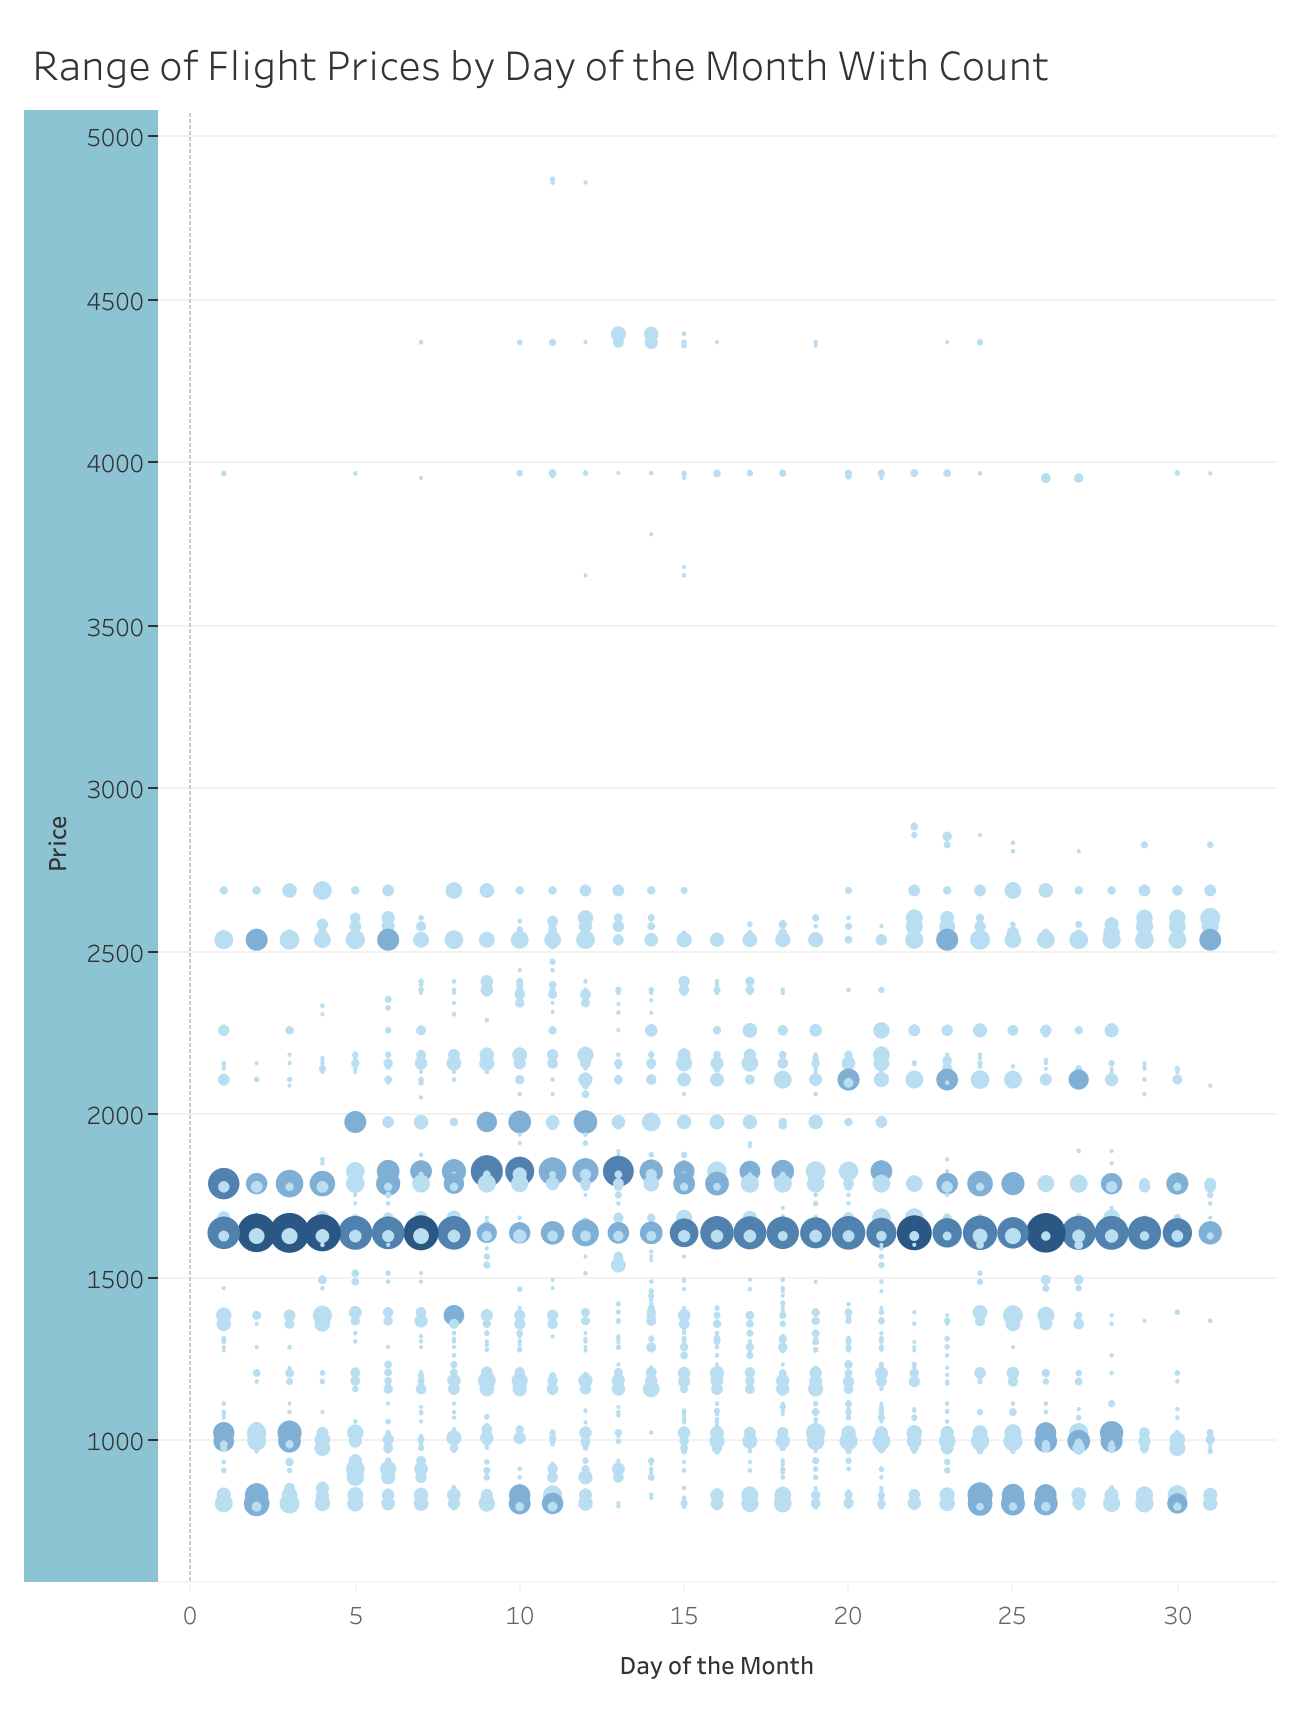
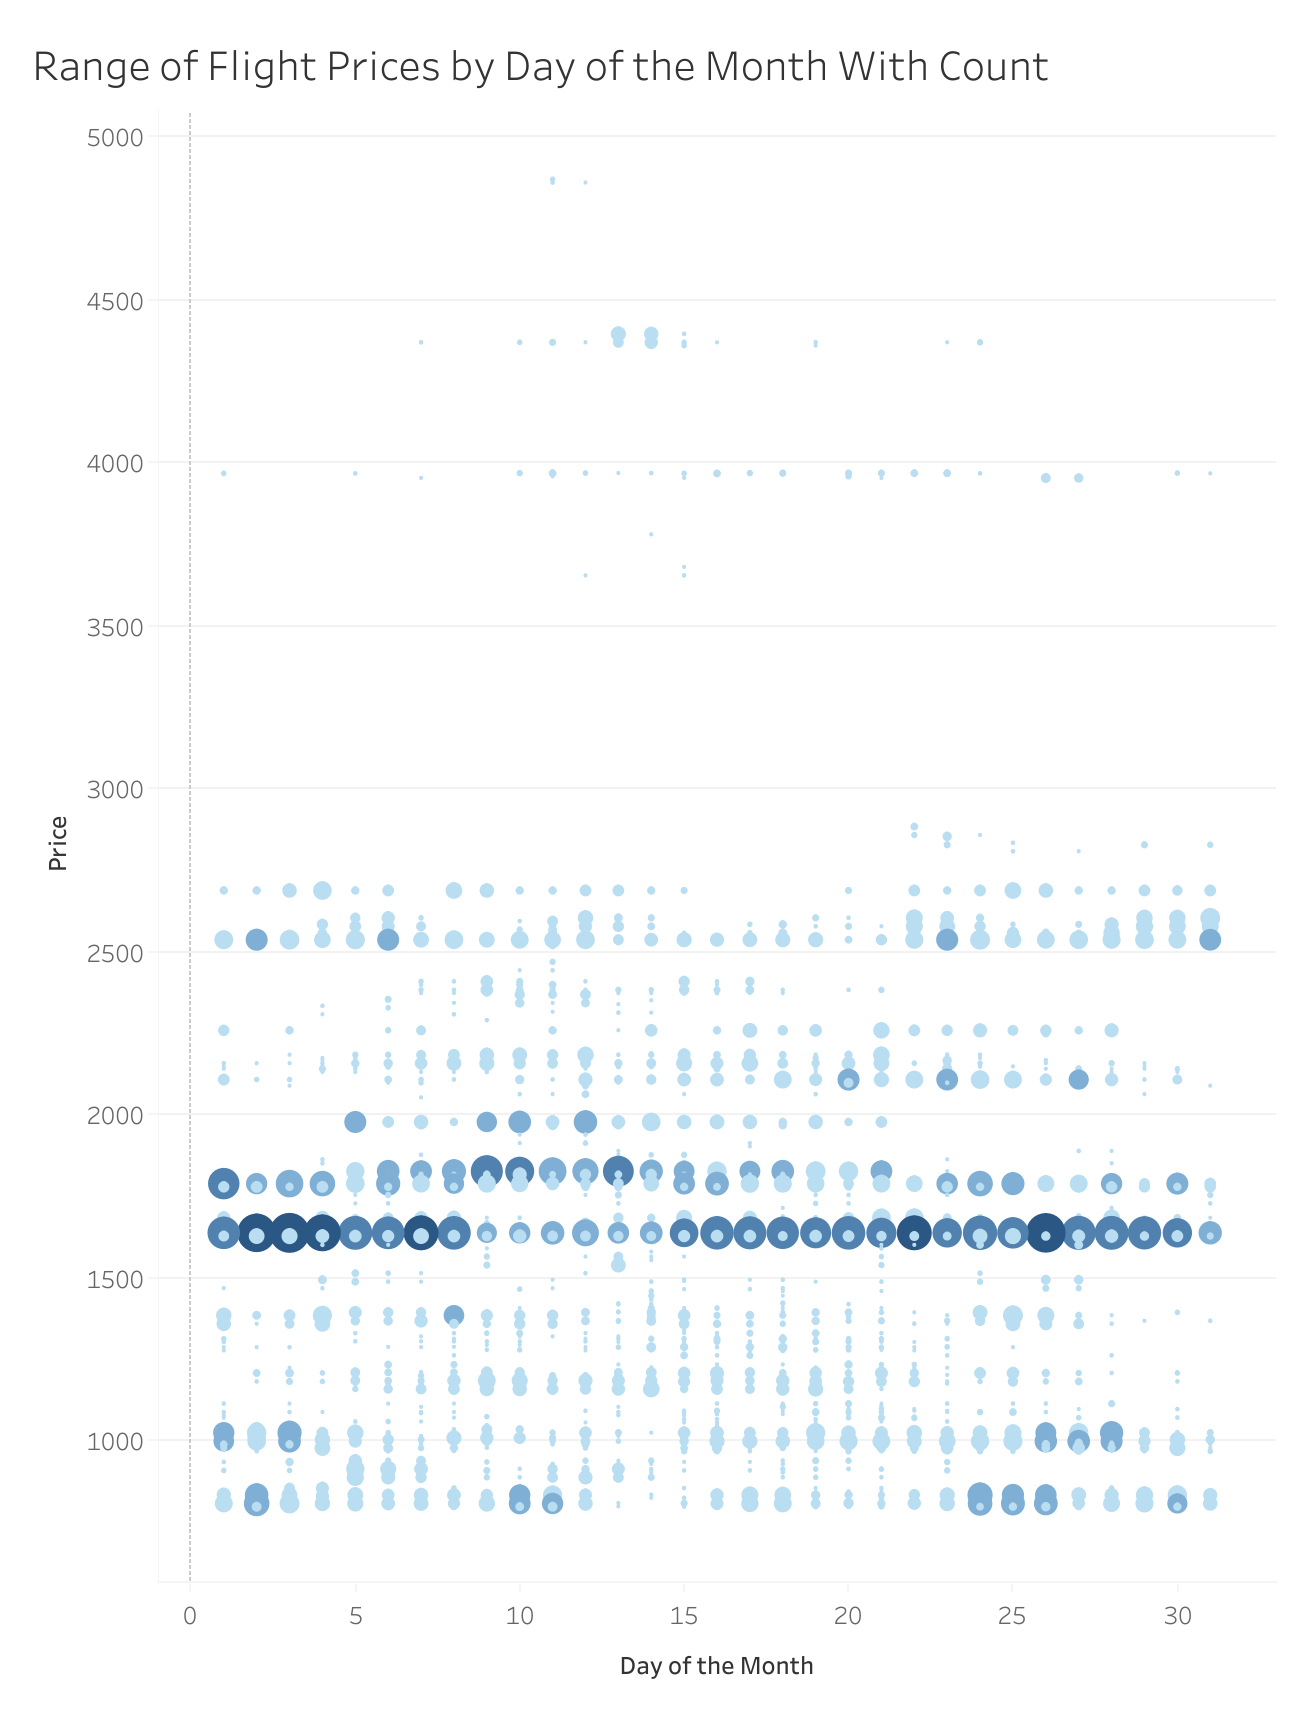
update photos

Changed region(s): [[0.0, 0.0617, 0.1233, 0.9255]]

diff --git a/projects/flightviz.md b/projects/flightviz.md
@@ -24,7 +24,7 @@ Some key takeaways:
 
 <br>
 
-<img src="../assets/img/projects/flightviz/HeatMapWeeklyAverages.png" alt="HeatmapWeek" width="600">
+<img src="../assets/img/projects/flightviz/HeatMapWeeklyAverages.png" alt="HeatmapWeek" width="900">
 
 This visualization shows:
 1. Weekly averages of the flight ticket prices by month for all the data
@@ -33,8 +33,9 @@ This visualization shows:
 
 <br>
 
-<img src="../assets/img/projects/flightviz/HeatMapDayAverages.png" alt="HeatmapDay" width="600">
-
+<p align="center">
+    <img src="../assets/img/projects/flightviz/HeatMapDayAverages.png" alt="HeatmapDay" width="800">
+</p>
 
 
 <br>
